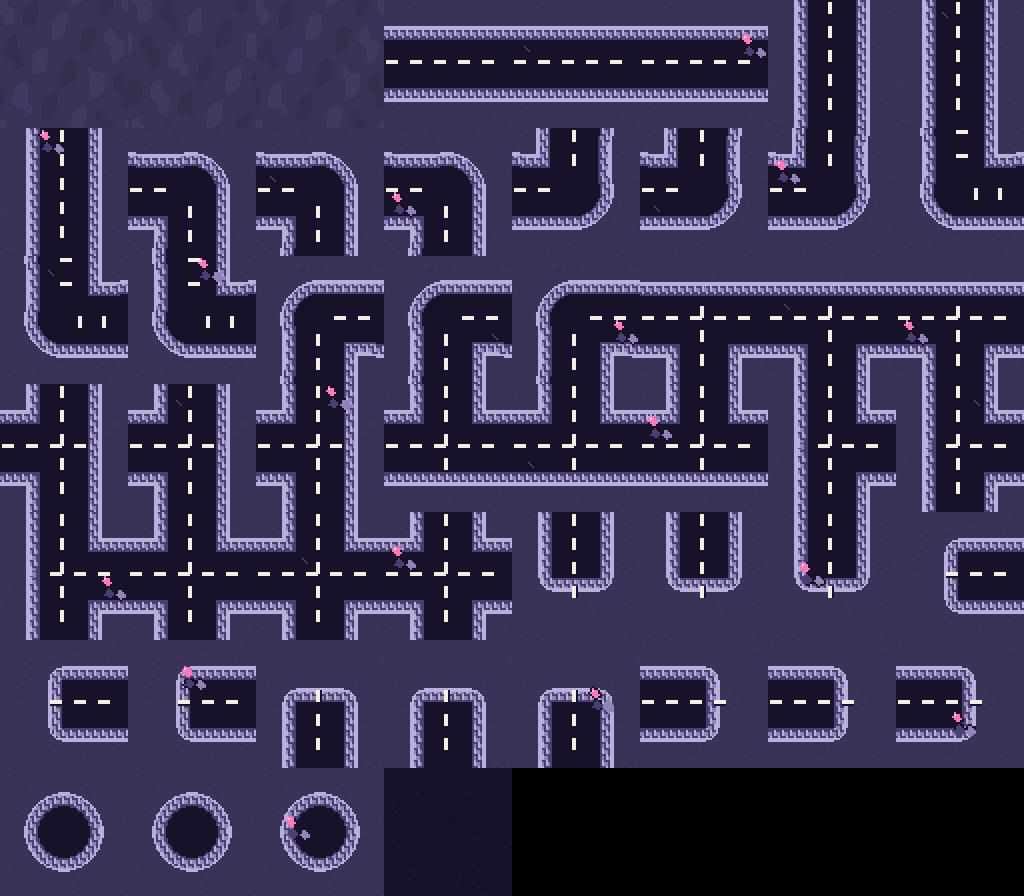
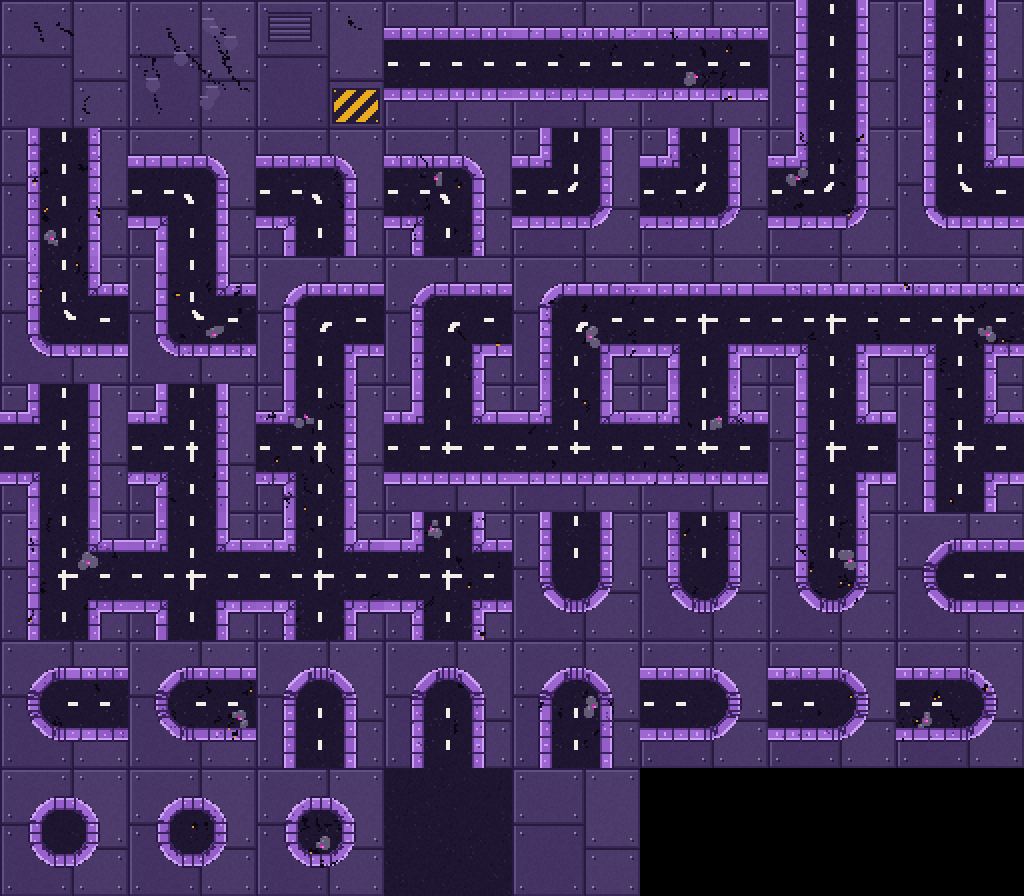
v4.1 : tuiles sol/routes redessinées en pixel art (style planche Neo Industriel), 16 formes x 3 états
Claude-Session: https://claude.ai/code/session_011HZeq7nMyePUSvmzg3f7Gx

Changed region(s): [[0.0, 0.0, 1.0, 1.0]]

diff --git a/index.html b/index.html
@@ -4,7 +4,7 @@
 <meta charset="utf-8">
 <script>if(navigator.standalone)document.documentElement.classList.add('sa')</script>
 <meta name="viewport" content="width=device-width,initial-scale=1,viewport-fit=cover">
-<title>Mechkawaii San 三 v4.0</title>
+<title>Mechkawaii San 三 v4.1</title>
 <link rel="manifest" href="manifest.webmanifest">
 <link rel="icon" type="image/png" href="icons/icon-192.png">
 <link rel="apple-touch-icon" href="icons/apple-touch-icon.png">
@@ -122,7 +122,7 @@ html.sa .screen{padding-top:max(44px,env(safe-area-inset-top))!important}
     <button class="btn" id="bEnd">MODE INFINI</button>
     <button class="btn cy" id="bHelp">COMMENT JOUER</button>
   </div>
-  <div class="foot">Version 4.0 · nouvelles routes</div>
+  <div class="foot">Version 4.1 · style Neo Industriel</div>
 </main>
 
 <main id="select" class="screen">
@@ -1473,7 +1473,7 @@ function drawHeroTo(cv,id,f=0){const g=cv.getContext('2d');g.imageSmoothingEnabl
 function tickScore(){if(!G)return;if(G.shown<G.score){G.shown=Math.min(G.score,G.shown+Math.max(1,Math.ceil((G.score-G.shown)/8)))}$('hScore').textContent=G?G.shown:0}
 
 
-/* ---------- essai HD (v4.0) : sprites et tuiles haute résolution, ?hd=0 pour revenir au pixel art ---------- */
+/* ---------- essai HD (v4.1) : sprites et tuiles haute résolution, ?hd=0 pour revenir au pixel art ---------- */
 const HD={on:!/[?&]hd=0/.test(location.search),tiles:null,b:{},n:0,cache:new Map(),CELL:128};
 (function(){if(!HD.on)return;const ld=(src,cb)=>{const im=new Image();im.onload=()=>{cb(im);HD.n++;groundKey='';HD.cache.clear()};im.src=src};
   ld('assets/hd/tiles.png',im=>HD.tiles=im);[1,2,3,4,5,6].forEach(t=>ld('assets/hd/b'+t+'.png',im=>HD.b[t]=im))})();
@@ -1498,7 +1498,7 @@ function ensureHdGround(){
     if(side==='E')run(0,S,(a,b)=>g.drawImage(vT,S-T1,a,th,b-a,x+S-th,y+a,th,b-a))};
   for(let r=0;r<N;r++)for(let c=0;c<N;c++){
     const x=c*S,y=r*S;
-    if(!em(r,c)){g.drawImage(hdTile(rh(r,c,5)%3),x,y);continue}
+    if(!em(r,c)){{const w=rh(r,c,5)%100;g.drawImage(hdTile(w<68?52:w<84?0:w<94?1:2),x,y)}continue}
     if(pz(r,c)){
       g.drawImage(hdTile(51),x,y);
       [['N',-1,0],['E',0,1],['S',1,0],['W',0,-1]].forEach(([sd,dy,dx])=>{const yy=r+dy,xx=c+dx;if(!inb(yy,xx))return;if(!em(yy,xx))wall(sd,x,y,false);else if(!pz(yy,xx))wall(sd,x,y,true)});
